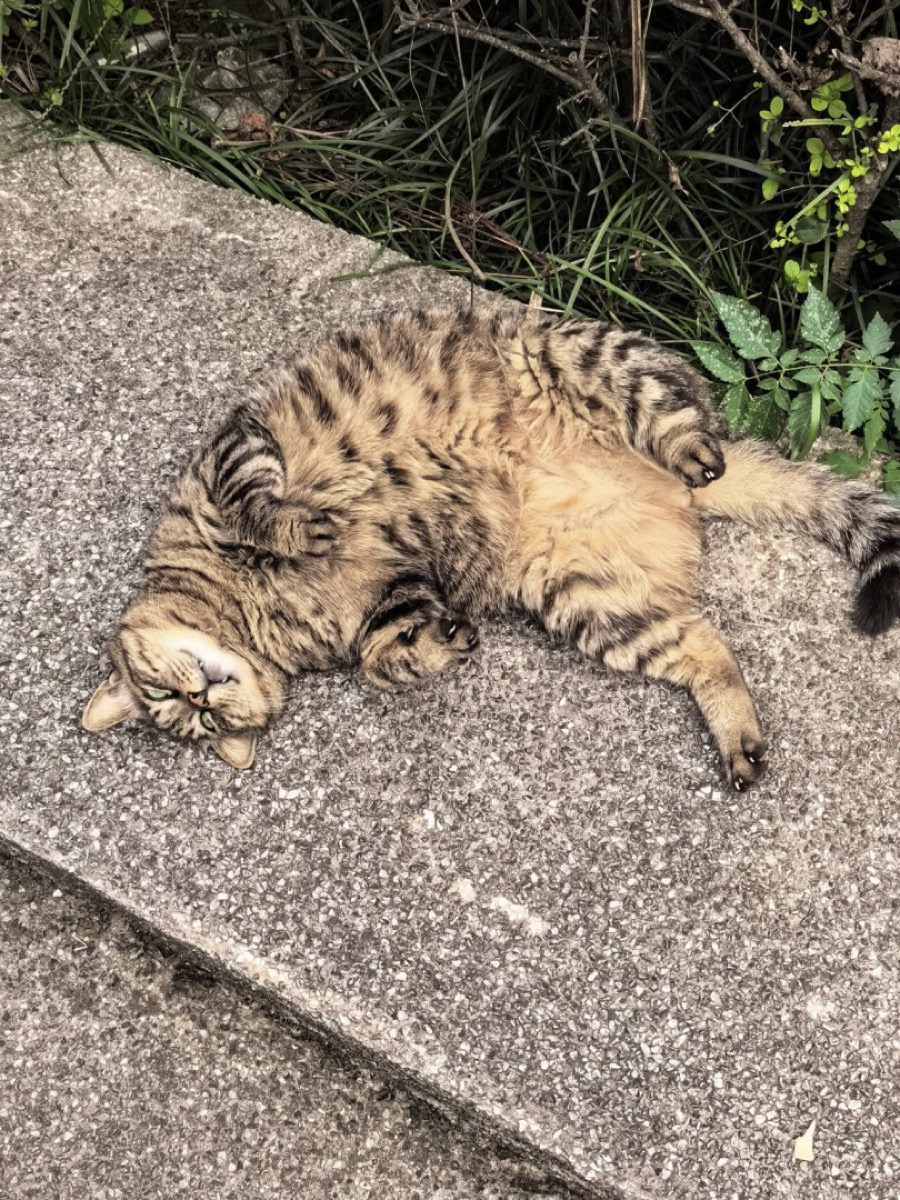
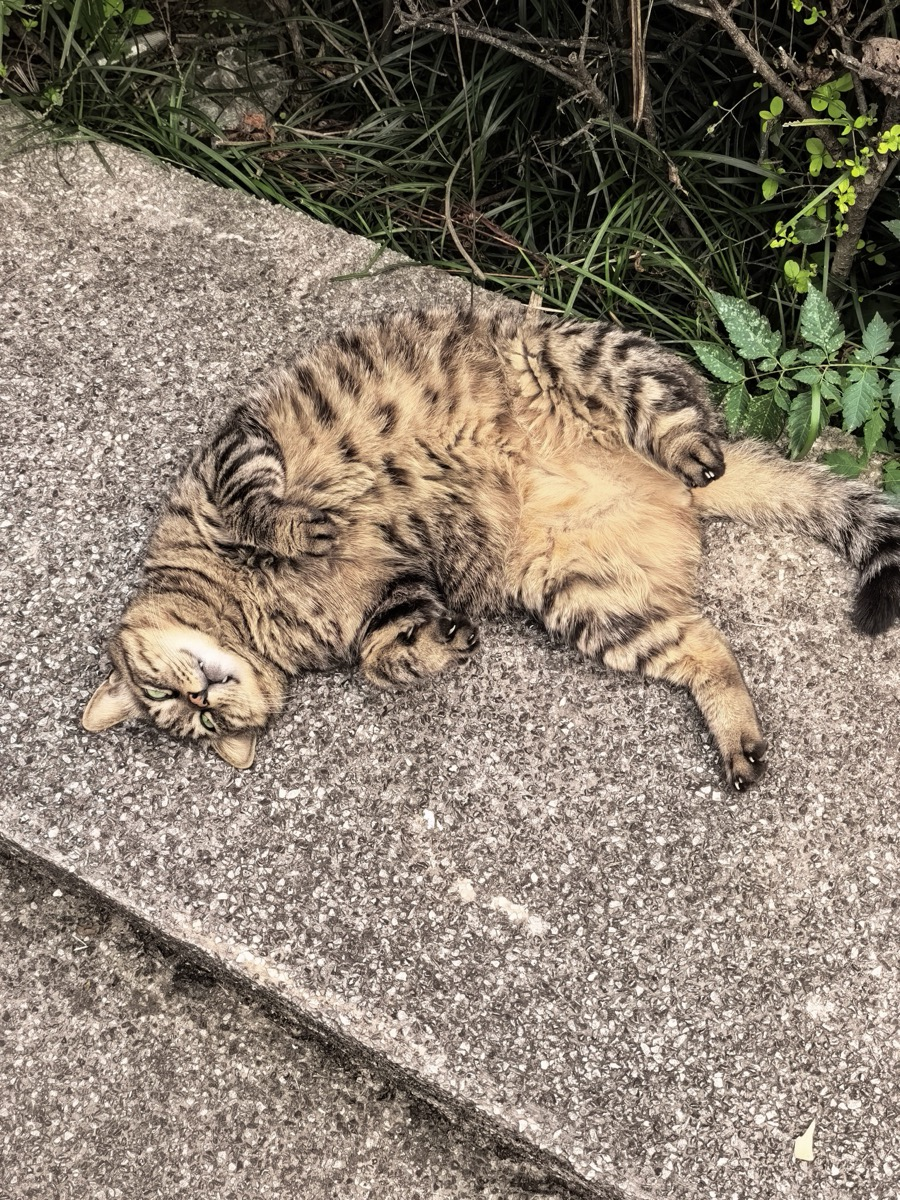
feat: 大头第36、37张换用高清素材，糯糯新增第7张照片

diff --git a/js/cats.js b/js/cats.js
@@ -8869,7 +8869,8 @@ export const catProfiles = [
       "images/糯糯/糯糯3.jpg",
       "images/糯糯/糯糯4.jpg",
       "images/糯糯/糯糯5.jpg",
-      "images/糯糯/糯糯6.jpg"
+      "images/糯糯/糯糯6.jpg",
+      "images/糯糯/糯糯7.jpg"
     ],
     "personality": [],
     "description": null,
@@ -8879,7 +8880,7 @@ export const catProfiles = [
     "aliases": [],
     "sourceId": null,
     "sourceImages": [],
-    "photoUpdatedAt": "2026-09-30"
+    "photoUpdatedAt": "2026-10-04"
   },
   {
     "name": "笑笑",
